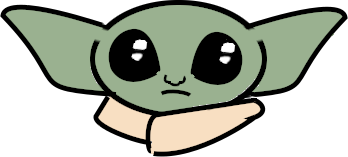
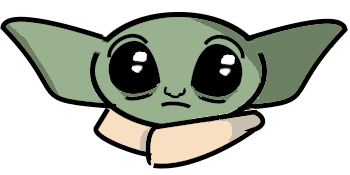
add yoda charcter and animations

Changed region(s): [[0.0, 0.0, 1.0, 1.0]]

diff --git a/public/home.css b/public/home.css
@@ -1,37 +1,53 @@
+:root{
+    --yoda_head_height: 8rem;
+    --yoda_head_width: 16rem;
+    --yoda_offset_body: 4rem;
+    --yoda_offset_mic: 9rem;
+}
+
 p {
     background-color: red;
     color: yellow;
 }
 
 #yoda {
-    padding-left: 5em;
+    padding-left: 5em; 
 }
 
 #head {
-    height: 5rem;
-    width: 14rem; 
+    height: var(--yoda_head_height);
+    width: var(--yoda_head_width);
     display: block;
     position: relative; 
-    z-index: 999;
-    animation: move 2s linear infinite;
+    z-index: 998;
+    animation: move 1.25s linear infinite;
 }
 
-#body {
-    height: 5rem;
-    width: 5rem; 
-    position: relative; 
-    left: 4.5em;
+#body{
+    height: var(--yoda_head_height);
+    width: var(--yoda_head_height);
+    position: relative;  
+    left: var(--yoda_offset_body);
+    z-index: 997;
+}
+
+#microphone {
+    height: var(--yoda_head_height);
+    width: var(--yoda_head_height);
+    position: relative;  
+    right: var(--yoda_offset_mic);
+    z-index: 999;
 }
  
 
 @keyframes move {
     0% {
-        top: 1.25rem;
+        top: 1.65rem;
     }
     50% {
         top: 2rem;
     }
     100% {
-        top: 1.25rem;
+        top: 1.65rem;
     }
 }

diff --git a/views/homeView.html b/views/homeView.html
@@ -9,6 +9,7 @@
         <div id="yoda">
             <img id="head" src="yoda_head.png">
             <img id="body" src="yoda_body.png">
+            <img id="microphone" src="yoda_mic.png">
         </div>
         <p>This is an example of a simple HTML page with one paragraph2.</p>
 
